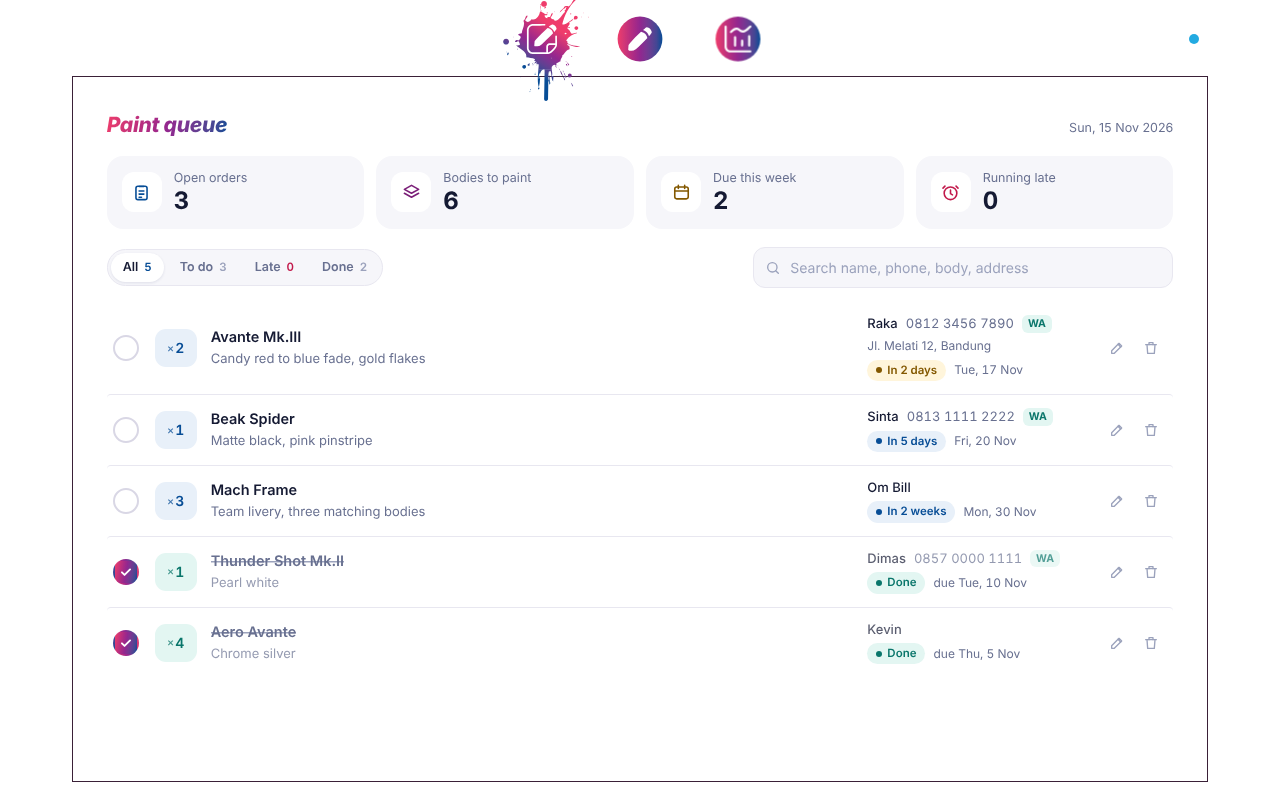
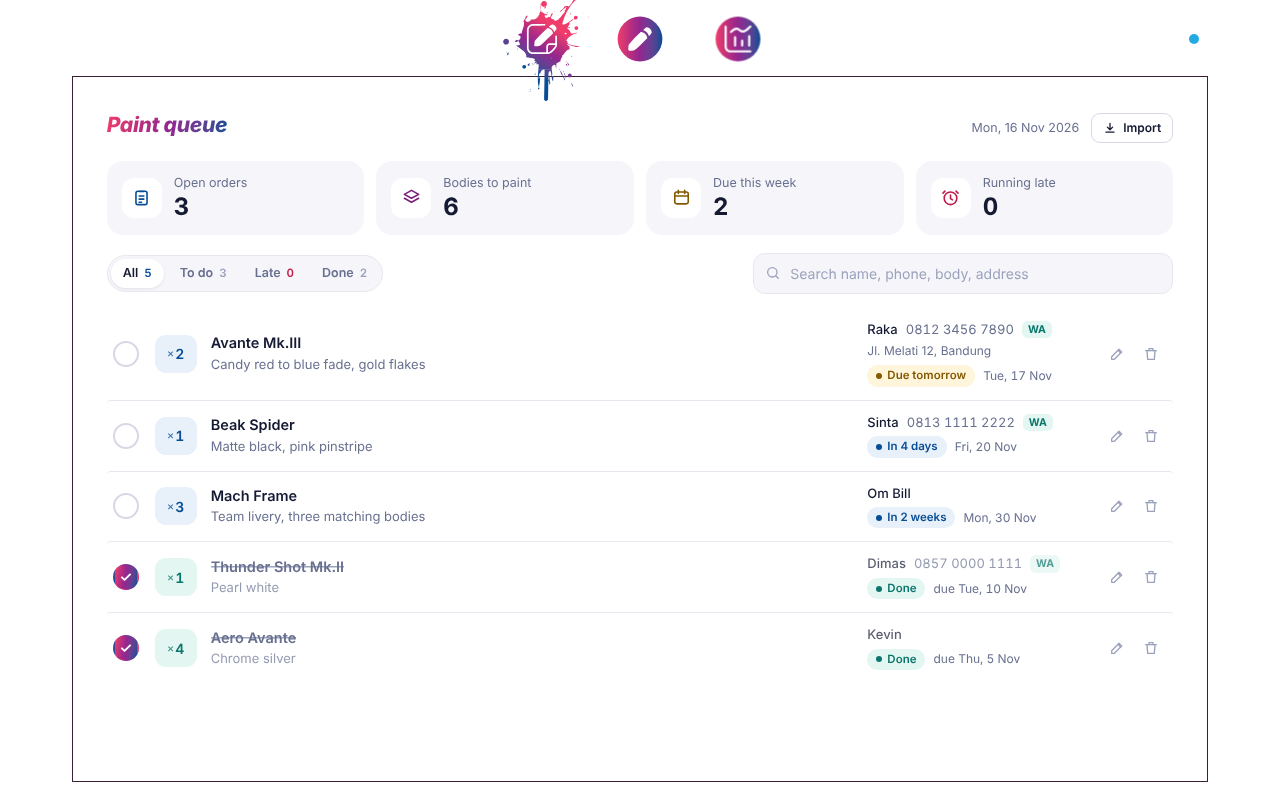
v1.8: import many orders at once from Notes
- New Import button on the Paint queue. Paste a list from Notes, or open a .txt file. Each line is one order: body - qty - name - phone - deadline.
- Fields are recognised by what they look like: dates like 20 Nov, 20/11, 2026-11-20 or 5 Oktober; phone numbers with or without dashes; qty like 2, x2 or 2 pcs. Bullets and numbering are ignored.
- A check list appears before importing. Lines that need fixing are marked, headings are skipped, and orders already in the POS or repeated in the list are not added twice.
- Import as Done (the default) or In queue. Every order is added in one go and uploaded to the Google Sheet in batches of 15, so each request stays within the Netlify time limit.

Claude-Session: https://claude.ai/code/session_01J7cTTuvN7aWaSmuUvZnV6P

diff --git a/index.html b/index.html
@@ -385,6 +385,35 @@ dialog.settings::backdrop{background:rgba(21,26,51,.38);-webkit-backdrop-filter:
 .paste-row{display:flex;gap:8px}
 .paste-row .inp{flex:1;min-width:0;padding-block:8px;font-size:13px}
 
+/* ---------- import from Notes ---------- */
+.head-r{display:flex;align-items:center;gap:12px}
+.mini.imp-btn{display:inline-flex;align-items:center;gap:6px}
+.mini.imp-btn svg{width:14px;height:14px;stroke:currentColor;fill:none;stroke-width:2.2;stroke-linecap:round;stroke-linejoin:round}
+dialog.import{width:min(760px,calc(100% - 24px));overflow:auto}
+.import .set-actions{position:sticky;bottom:0;background:var(--surface);padding:12px 0 4px;margin-top:-4px;box-shadow:0 -10px 14px -8px rgba(255,255,255,.95)}
+.imp-help{margin:0;font-size:12.5px;color:var(--muted)}
+.imp-help code{font-family:inherit;font-size:12px;background:var(--soft);padding:1px 6px;border-radius:6px;color:var(--text);overflow-wrap:anywhere}
+.imp-text{min-height:150px;font-size:13px;line-height:1.55}
+.imp-row{display:flex;flex-wrap:wrap;gap:10px;align-items:center;justify-content:space-between}
+.imp-row .lbl{margin-right:6px}
+.file-btn{position:relative;overflow:hidden;display:inline-flex;align-items:center}
+.file-btn input{position:absolute;inset:0;opacity:0;cursor:pointer}
+.imp-sum{margin:0;font-size:13px;display:flex;flex-wrap:wrap;gap:4px 14px}
+.imp-sum b{font-weight:700}
+.imp-sum .bad{color:var(--pink-text)}
+.imp-sum .dim{color:var(--muted)}
+.imp-list{list-style:none;margin:0;padding:0;max-height:min(40vh,340px);overflow:auto;border:1px solid var(--line);border-radius:12px;overscroll-behavior:contain}
+.imp-list:empty{display:none}
+.imp-list li{display:grid;grid-template-columns:30px minmax(0,1fr) auto;gap:4px 10px;align-items:center;padding:8px 12px;border-top:1px solid var(--line);font-size:12.5px;line-height:1.4}
+.imp-list li:first-child{border-top:0}
+.imp-n{color:var(--faint);font-variant-numeric:tabular-nums}
+.imp-main{min-width:0;overflow-wrap:anywhere}
+.imp-main b{font-weight:600}
+.imp-main span{color:var(--muted)}
+.imp-main em{font-style:normal;color:var(--pink-text);font-weight:500}
+.imp-list li.bad{background:var(--pink-soft)}
+.imp-list li.skip .imp-main{opacity:.55}
+
 @media (prefers-reduced-motion: reduce){
   *,*::before,*::after{animation-duration:.001ms!important;animation-iteration-count:1!important;transition-duration:.001ms!important;transition-delay:0s!important;animation-delay:0s!important}
 }
@@ -411,7 +440,10 @@ dialog.settings::backdrop{background:rgba(21,26,51,.38);-webkit-backdrop-filter:
   <section class="view" id="v-queue" data-view="queue" aria-labelledby="queueTitle" hidden>
     <div class="view-head">
       <h2 class="ttl" id="queueTitle">Paint queue</h2>
-      <span class="today" id="today"></span>
+      <div class="head-r">
+        <span class="today" id="today"></span>
+        <button class="mini imp-btn" type="button" data-open-import><svg viewBox="0 0 24 24" aria-hidden="true"><path d="M12 4v11M7.5 10.5 12 15l4.5-4.5M5 19h14"/></svg>Import</button>
+      </div>
     </div>
     <div class="stats" aria-label="Quick look">
       <div class="stat">
@@ -596,6 +628,33 @@ dialog.settings::backdrop{background:rgba(21,26,51,.38);-webkit-backdrop-filter:
   </form>
 </dialog>
 
+<dialog class="settings import" id="importDlg" aria-labelledby="impTitle">
+  <form class="set-in" id="impForm" method="dialog" novalidate>
+    <div class="set-head">
+      <h2 class="ttl" id="impTitle">Import orders</h2>
+      <button class="icon-btn" type="button" id="closeImport" aria-label="Close"><svg viewBox="0 0 24 24"><path d="M6 6l12 12M18 6 6 18"/></svg></button>
+    </div>
+    <p class="imp-help">Paste your list from Notes, one order per line, as many lines as you like: <code>body - qty - name - phone - deadline</code>. For example <code>Avante Mk.III - 2 - Raka - 0812 3456 7890 - 20 Nov</code>. Anything after the deadline goes into the order details.</p>
+    <label class="sr" for="impText">Orders to import</label>
+    <textarea class="inp imp-text" id="impText" spellcheck="false" autocomplete="off" placeholder="Avante Mk.III - 2 - Raka - 0812 3456 7890 - 20 Nov&#10;Beak Spider - 1 - Sinta - 0813 1111 2222 - 18/11&#10;Mach Frame - 3 - Om Bill - 0857 0000 1111 - 2026-11-30"></textarea>
+    <div class="imp-row">
+      <span class="mini file-btn">Open a .txt file<input type="file" id="impFile" accept=".txt,text/plain" aria-label="Open a text file"></span>
+      <div><span class="lbl" id="impAsLbl">Import as</span>
+        <div class="seg" role="group" aria-labelledby="impAsLbl">
+          <button type="button" data-imp-as="done" aria-pressed="true">Done</button>
+          <button type="button" data-imp-as="todo" aria-pressed="false">In queue</button>
+        </div>
+      </div>
+    </div>
+    <p class="imp-sum" id="impSum" aria-live="polite"></p>
+    <ol class="imp-list" id="impList"></ol>
+    <div class="set-actions">
+      <button class="btn-main" type="button" id="impGo" disabled>Import</button>
+      <button class="btn-ghost" type="button" id="impCancel">Cancel</button>
+    </div>
+  </form>
+</dialog>
+
 <div class="toast" id="toast" role="status" aria-live="polite"></div>
 <div class="update-bar" id="updateBar" role="status" hidden><span>A new version is ready.</span><button type="button" id="updateNow">Update</button></div>
 
@@ -674,7 +733,7 @@ function enqueue(op) {
 class SyncError extends Error { constructor(code) { super(code); this.code = code; } }
 // Normal route is fetch. If the browser blocks it (CORS, extensions, some networks),
 // fall back to a script-tag request, which Apps Script answers as JSONP.
-const APP_VERSION = '1.7';
+const APP_VERSION = '1.8';
 const lastDetail = { fetch: '', backup: '', proxy: '' };
 let transport = lsGet('wpos-transport', 'fetch') === 'jsonp' ? 'jsonp' : 'fetch';
 function jsonp(params) {
@@ -769,7 +828,7 @@ async function flush() {
   flushing = true; updateSyncUI();
   try {
     while (queue.length) {
-      let batch = queue.slice(0, transport === 'jsonp' ? 12 : 50);
+      let batch = queue.slice(0, transport === 'jsonp' ? 12 : 15);
       if (transport === 'jsonp') while (batch.length > 1 && encodeURIComponent(JSON.stringify(batch)).length > 5500) batch = batch.slice(0, batch.length - 1);
       batch.forEach(q => inflight.add(q.seq));
       try {
@@ -992,8 +1051,8 @@ function renderList() {
     empty.hidden = false;
     if (!all.length) {
       empty.innerHTML = configured()
-        ? `<span class="ttl">No orders yet</span><p>Add your first order and it shows up here.</p><button type="button" class="mini" data-go="order">New order</button>`
-        : `<span class="ttl">No orders yet</span><p>Connect your Google Sheet to load your orders, or add a new one.</p><div class="set-row"><button type="button" class="mini" data-open-settings>Connect Google Sheet</button><button type="button" class="mini plain" data-go="order">New order</button></div>`;
+        ? `<span class="ttl">No orders yet</span><p>Add your first order and it shows up here.</p><div class="set-row"><button type="button" class="mini" data-go="order">New order</button><button type="button" class="mini plain" data-open-import>Import from Notes</button></div>`
+        : `<span class="ttl">No orders yet</span><p>Connect your Google Sheet to load your orders, or add a new one.</p><div class="set-row"><button type="button" class="mini" data-open-settings>Connect Google Sheet</button><button type="button" class="mini plain" data-go="order">New order</button><button type="button" class="mini plain" data-open-import>Import from Notes</button></div>`;
     } else empty.innerHTML = `<span class="ttl">Nothing here</span><p>Try another filter or clear the search.</p>`;
   }
 }
@@ -1250,7 +1309,7 @@ document.addEventListener('click', e => {
   const g = e.target.closest('[data-go]'); if (g) go(g.dataset.go);
 });
 document.addEventListener('keydown', e => {
-  if (e.key !== 'Escape' || $('#settings').open) return;
+  if (e.key !== 'Escape' || $('#settings').open || $('#importDlg').open) return;
   const typing = e.target && /^(INPUT|TEXTAREA|SELECT)$/.test(e.target.tagName);
   if (state.confirmId) { state.confirmId = null; renderList(); }
   else if (state.editingId && current === 'order') { resetForm(); go('queue'); }
@@ -1385,6 +1444,148 @@ async function connectWithCode(code) {
     if (ok) toast('This device is connected.'); else openSettings();
   } catch (e) { toast('That setup link is not valid. Copy it again from the other device.'); }
 }
+
+/* ================= import a list of orders (pasted from Notes, or a .txt file) ================= */
+// Each line is one order: body - qty - name - phone - deadline. Fields are recognised by what they look like
+// (a date, a phone number, a small number), so a missing or swapped field still works; body comes before name.
+const MON = { jan: 0, januari: 0, january: 0, feb: 1, februari: 1, february: 1, mar: 2, maret: 2, march: 2, apr: 3, april: 3,
+  mei: 4, may: 4, jun: 5, juni: 5, june: 5, jul: 6, juli: 6, july: 6, agu: 7, agt: 7, agus: 7, agustus: 7, aug: 7, august: 7,
+  sep: 8, sept: 8, september: 8, okt: 9, oct: 9, oktober: 9, october: 9, nov: 10, nop: 10, nopember: 10, november: 10,
+  des: 11, dec: 11, desember: 11, december: 11 };
+function looseDate(raw) {
+  let s = String(raw).toLowerCase().replace(/[,.]/g, ' ').replace(/\s+/g, ' ').trim();
+  s = s.replace(/^(?:deadline|dl|tgl|tanggal|due)\s*:?\s*/, '').replace(/^(?:sen|sel|rab|kam|jum|sab|min|mon|tue|wed|thu|fri|sat|sun)[a-z']*\s+/, '');
+  let y = null, mo = null, d = null, m;
+  if ((m = /^(\d{4})\/(\d{1,2})\/(\d{1,2})$/.exec(s))) { y = +m[1]; mo = +m[2] - 1; d = +m[3]; }
+  else if ((m = /^(\d{1,2})\/(\d{1,2})(?:\/(\d{2}|\d{4}))?$/.exec(s))) { d = +m[1]; mo = +m[2] - 1; y = m[3] ? +m[3] : null; }
+  else if ((m = /^(\d{1,2}) ?([a-z]+)(?: (\d{2}|\d{4}))?$/.exec(s))) { d = +m[1]; mo = MON[m[2]] ?? MON[m[2].slice(0, 3)]; y = m[3] ? +m[3] : null; }
+  else if ((m = /^([a-z]+) (\d{1,2})(?: (\d{4}))?$/.exec(s))) { mo = MON[m[1]] ?? MON[m[1].slice(0, 3)]; d = +m[2]; y = m[3] ? +m[3] : null; }
+  else return null;
+  if (mo == null || mo < 0 || mo > 11 || !d) return null;
+  if (y != null && y < 100) y += 2000;
+  const t = todayDate();
+  let dt = new Date(y ?? t.getFullYear(), mo, d);
+  if (dt.getMonth() !== mo || dt.getDate() !== d) return null;
+  if (y == null && dayDiff(dt, t) > 183) dt = new Date(t.getFullYear() - 1, mo, d);   // no year: the nearest one
+  return isoDate(dt);
+}
+const phoneLike = s => /^[+\d][\d\s().-]*$/.test(s) && s.replace(/\D/g, '').length >= 8 && s.replace(/\D/g, '').length <= 15;
+const qtyOf = s => { const m = /^(?:qty\s*:?\s*|x\s*)?(\d{1,3})\s*(?:x|pcs?|body|bodies|unit|buah|bh)?$/i.exec(s); return m && +m[1] >= 1 ? +m[1] : null; };
+function parseLine(line) {
+  let s = line.replace(/ /g, ' ').trim()
+    .replace(/^(?:[-–—•◦▪●○*·✓✔☐☑✅]+\s+|\d{1,3}[.)]\s+)/, '');                // bullets and numbering from Notes
+  if (!s) return null;
+  s = s.replace(/\b(\d{4})-(\d{1,2})-(\d{1,2})\b/g, '$1/$2/$3').replace(/\b(\d{1,2})-(\d{1,2})-(\d{2,4})\b/g, '$1/$2/$3')
+       .replace(/(^|[^\d/])(\+?\d{3,5}(?:-\d{3,5}){1,3})(?![\d/])/g, (a, pre, num) => pre + num.replace(/-/g, ' '));   // 0812-3456-7890
+  const sep = /\s[-–—]\s/.test(s) ? /\s+[-–—]\s+/ : /[|\t;]/.test(s) ? /\s*[|\t;]\s*/ : /,/.test(s) ? /\s*,\s*/ : /\s*[-–—]\s*/;
+  const parts = s.split(sep).map(x => x.trim()).filter(Boolean);
+  const o = { body: '', qty: null, name: '', phone: '', deadline: '', details: '' };
+  const rest = [];
+  parts.forEach(p => {
+    if (!o.deadline) { const d = looseDate(p); if (d) { o.deadline = d; return; } }
+    if (!o.phone && phoneLike(p)) { o.phone = p.replace(/\s+/g, ' ').slice(0, 24); return; }
+    if (o.qty == null) { const q = qtyOf(p); if (q != null) { o.qty = Math.min(999, q); return; } }
+    rest.push(p);
+  });
+  o.body = (rest[0] || '').slice(0, 80);
+  o.name = (rest[1] || '').slice(0, 60);
+  o.details = rest.slice(2).join(' - ').slice(0, 1000);
+  const looksLikeOrder = o.deadline || o.phone || o.qty != null;
+  if (!looksLikeOrder) return { skip: true, why: 'not an order', o };                 // headings and notes
+  o.qty = o.qty || 1;
+  const miss = [];
+  if (!o.body) miss.push('body');
+  if (!o.name && !o.phone) miss.push('name or phone');
+  if (!o.deadline) miss.push('deadline');
+  return { o, why: miss.length ? 'missing ' + miss.join(', ') : '' };
+}
+const dupKey = o => [String(o.body).trim().toLowerCase(), o.qty, o.deadline, String(o.phone || '').replace(/\D/g, '') || String(o.name).trim().toLowerCase()].join('|');
+const imp = { as: 'done', rows: [] };
+function parseImport() {
+  const seen = new Set([...state.orders.values()].map(dupKey)), inList = new Set();
+  imp.rows = [];
+  $('#impText').value.split(/\r?\n/).forEach((line, i) => {
+    const r = parseLine(line);
+    if (!r) return;
+    r.n = i + 1;
+    if (!r.skip && !r.why) {
+      const k = dupKey(r.o);
+      if (seen.has(k)) { r.skip = true; r.why = 'already in the POS'; }
+      else if (inList.has(k)) { r.skip = true; r.why = 'twice in this list'; }
+      else inList.add(k);
+    }
+    imp.rows.push(r);
+  });
+  renderImport();
+}
+function renderImport() {
+  const ok = imp.rows.filter(r => !r.skip && !r.why), bad = imp.rows.filter(r => !r.skip && r.why), skip = imp.rows.filter(r => r.skip);
+  const t = todayDate();
+  $('#impList').innerHTML = imp.rows.map(r => {
+    const o = r.o, d = parseDate(o.deadline);
+    const cls = r.skip ? 'skip' : r.why ? 'bad' : '';
+    const chip = r.skip ? `<span class="chip ok">${esc(r.why === 'not an order' ? 'Skipped' : 'Double')}</span>` : r.why ? `<span class="chip late">Fix</span>` : `<span class="chip done">Ready</span>`;
+    const bits = [o.name && esc(o.name), o.phone && esc(o.phone), d && fmtDate(d)].filter(Boolean).join(' · ');
+    return `<li class="${cls}"><span class="imp-n">${r.n}</span><span class="imp-main"><b>${esc(o.body || '(no body)')}</b>${r.why === 'not an order' ? '' : ' ×' + (o.qty || 1)}${bits ? ` <span>· ${bits}</span>` : ''}${r.why && !r.skip ? `<br><em>${esc(r.why)}</em>` : r.skip && r.why !== 'not an order' ? `<br><span>${r.why === 'twice in this list' ? 'same order is already higher up in this list' : 'already in the POS'}, will not be added twice</span>` : ''}</span>${chip}</li>`;
+  }).join('');
+  const parts = [];
+  if (ok.length) parts.push(`<b>${ok.length} ${ok.length === 1 ? 'order' : 'orders'} ready</b>`);
+  if (bad.length) parts.push(`<span class="bad">${bad.length} ${bad.length === 1 ? 'line needs' : 'lines need'} fixing (edit the text above)</span>`);
+  if (skip.length) parts.push(`<span class="dim">${skip.length} skipped</span>`);
+  $('#impSum').innerHTML = imp.rows.length ? parts.join('') : '';
+  const go = $('#impGo');
+  go.disabled = !ok.length;
+  go.textContent = ok.length ? `Import ${ok.length} ${ok.length === 1 ? 'order' : 'orders'} as ${imp.as === 'done' ? 'done' : 'in queue'}` : 'Import';
+}
+const impDlg = $('#importDlg');
+function openImport() {
+  parseImport();
+  if (typeof impDlg.showModal === 'function') impDlg.showModal(); else impDlg.setAttribute('open', '');
+}
+function closeImport() { if (typeof impDlg.close === 'function') impDlg.close(); else impDlg.removeAttribute('open'); }
+document.addEventListener('click', e => { if (e.target.closest('[data-open-import]')) openImport(); });
+$('#closeImport').addEventListener('click', closeImport);
+$('#impCancel').addEventListener('click', closeImport);
+impDlg.addEventListener('click', e => { if (e.target === impDlg) closeImport(); });
+let impTimer = 0;
+$('#impText').addEventListener('input', () => { clearTimeout(impTimer); impTimer = setTimeout(parseImport, 150); });
+$('#impFile').addEventListener('change', async e => {
+  const f = e.target.files && e.target.files[0]; if (!f) return;
+  try { const txt = await f.text(); const ta = $('#impText'); ta.value = (ta.value.trim() ? ta.value.replace(/\s+$/, '') + '\n' : '') + txt; parseImport(); }
+  catch (err) { toast('Could not read that file.'); }
+  e.target.value = '';
+});
+document.querySelectorAll('[data-imp-as]').forEach(b => b.addEventListener('click', () => {
+  imp.as = b.dataset.impAs;
+  document.querySelectorAll('[data-imp-as]').forEach(x => x.setAttribute('aria-pressed', String(x === b)));
+  renderImport();
+}));
+$('#impGo').addEventListener('click', () => {
+  const ok = imp.rows.filter(r => !r.skip && !r.why);
+  if (!ok.length) return;
+  const done = imp.as === 'done', now = new Date();
+  ok.forEach(r => {
+    const d = parseDate(r.o.deadline);
+    const at = d && new Date(d.getFullYear(), d.getMonth(), d.getDate(), 12) < now ? new Date(d.getFullYear(), d.getMonth(), d.getDate(), 12) : now;
+    const o = norm(newId(), { ...r.o, done, doneAt: done ? at.toISOString() : null, createdAt: now.toISOString() });
+    o.updatedAt = now.toISOString();
+    state.orders.set(o.id, o);
+    queue.push({ seq: ++seqN, id: o.id, action: 'upsert', order: toDoc(o) });
+  });
+  saveOrders();
+  lsSet(LS.queue, queue);
+  $('#impText').value = '';
+  imp.rows = [];
+  renderImport();
+  closeImport();
+  state.filter = done ? 'done' : 'todo';
+  document.querySelectorAll('.filters .pill').forEach(x => x.setAttribute('aria-pressed', String(x.dataset.filter === state.filter)));
+  renderAll();
+  updateSyncUI();
+  toast(`${ok.length} ${ok.length === 1 ? 'order' : 'orders'} imported${configured() ? '. Uploading to the Google Sheet…' : '.'}`);
+  if (current !== 'queue') go('queue');
+  flush();
+});
 
 /* ================= toast ================= */
 let toastTimer = null;

diff --git a/sw.js b/sw.js
@@ -3,7 +3,7 @@
  * - The page itself is always fetched fresh when online, so new versions arrive right away.
  * - Order data never goes through here: /api and Google Apps Script requests are left alone.
  */
-const VERSION = '1.7';
+const VERSION = '1.8';
 const SHELL = 'wpos-shell-' + VERSION;
 const FONTS = 'wpos-fonts';
 const SHELL_FILES = ['/', '/manifest.webmanifest', '/icon-32.png', '/icon-180.png', '/icon-192.png', '/icon-512.png', '/icon-maskable-512.png'];
